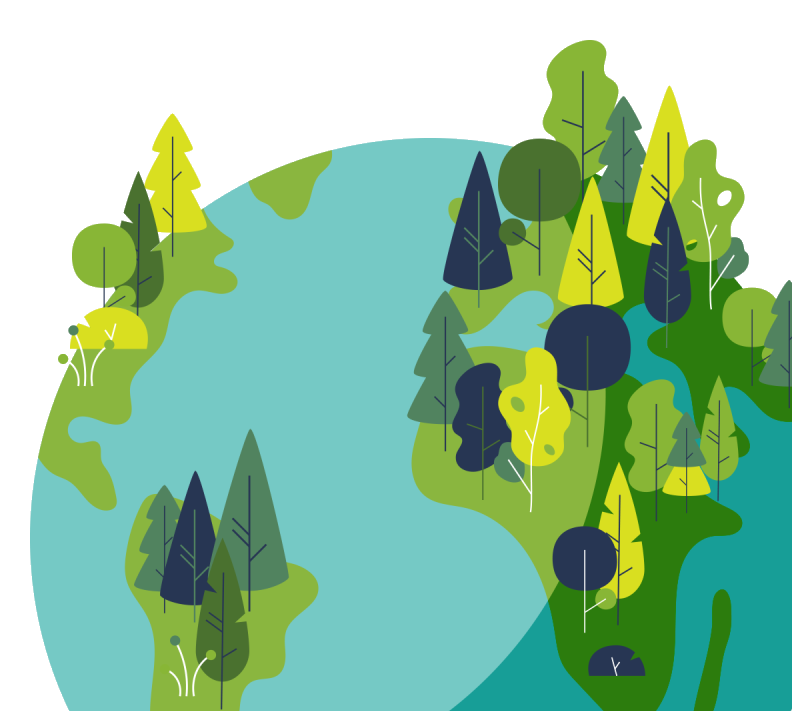
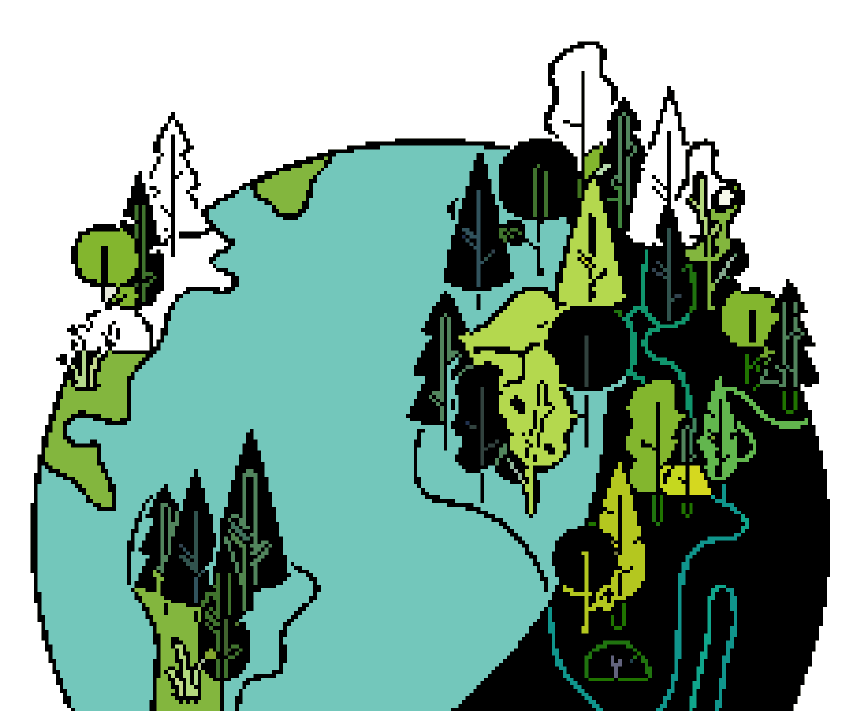
began transition to 8-bit style

diff --git a/src/components/Home/Landing/Landing.js b/src/components/Home/Landing/Landing.js
@@ -1,12 +1,12 @@
 import React from 'react';
 import './Landing.css'
-import earthImage from '../../../assets/Earth.png'
+import gameLogo from '../../../assets/GameLogo.png'
 
 function Landing() {
     return (
         <div id = "container">
             <div id = "subContainer">
-                <h1 id = "title">Planet Planter</h1>
+                <img src = {gameLogo}/>
                 <h3 id = "landingContent">An interactive blockchain clicker game to solve your boredom and save the world!</h3>
                 <button id = "playNowButton">Play Now</button> 
                 <button id = "learnMoreButton">Learn More</button> 
